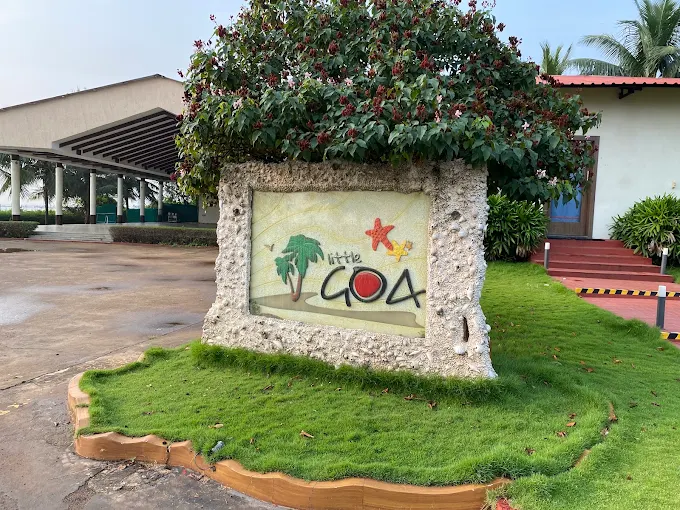
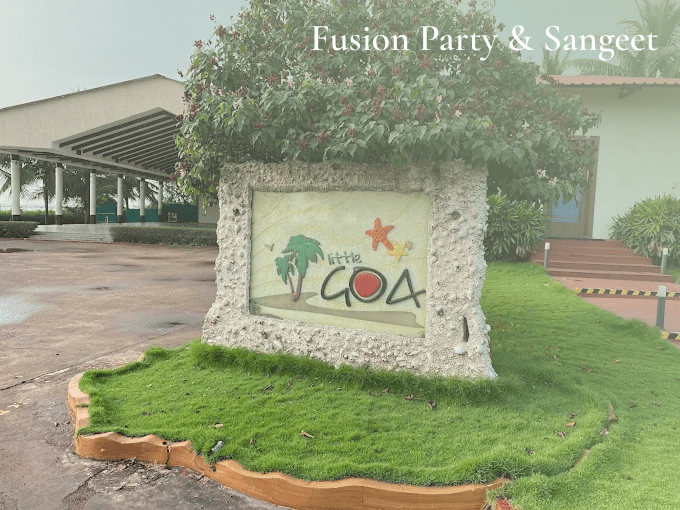
Fixed typos and updated venue images with caption

diff --git a/src/App.tsx b/src/App.tsx
@@ -80,7 +80,7 @@ function App() {
           <header className="hero-meta"><span>Our wedding</span><span>#TUTTUPALLA</span></header>
           <div className="hero-center">
             <img className="hero-logo" src="/Gold-text-no-bg.svg" alt="Sharani and Aravind monogram" />
-            <p className="light-kicker">Together with their families</p>
+            <p className="light-kicker">Together with our families</p>
             <h1>Sharani <i>&amp;</i> Aravind</h1>
             <p className="hero-date">Saturday &amp; Sunday, 12–13 December 2026</p>
           </div>
@@ -103,7 +103,7 @@ function App() {
         <section className="invite-section location-section">
           <div className="location-heading"><p className="kicker">Location</p><h2>Sai Priya<br /><i>Beach Resort</i></h2></div>
           <PhotoCarousel className="location-carousel" photos={venuePhotos} alt="Sai Priya Beach Resort" />
-          <p>We'll be celebrating by the sea at Sai Priya Beach Resort, Visakhapatnam.</p>
+          <p>We'll be celebrating by the beach at Sai Priya Beach Resort, Visakhapatnam.</p>
           <a className="pill-button" href="https://maps.app.goo.gl/id42pd1ZgCsBTgb98" target="_blank" rel="noreferrer">View the map <ArrowRight size={13} /></a>
         </section>
 
@@ -125,7 +125,7 @@ function App() {
             <p className="dress-emoji-title">🌸 FUSION PARTY</p>
             <p className="dress-sub">Pastels, pretty things &amp; a little bit of South Indian drama</p>
             <p>We're going for pastels + light colours + Indian silhouettes.</p>
-            <p><strong>Think:</strong> Kerala Kasavu sarees, Kalamkari blouses, Gadwal sarees, Mangalgiri/Mangalagiri sarees, Light cotton/silk sarees, Pastel kurtas / anarkalis, Kerala mundu or Pattu pancha.</p>
+            <p><strong>Think:</strong> Kerala kasavu sarees, Kalamkari blouses, Gadwal sarees, Mangalgiri/Mangalagiri sarees, light cotton/silk sarees, pastel kurtas / anarkalis, Kerala mundu or pattu pancha.</p>
             <p>Basically anything that says "I made an effort" without saying "I haven't sat down in three hours."</p>
             <p className="dress-muted">Colour mood: ivory • cream • blush • peach • sage • powder blue • lilac • butter yellow • soft pink</p>
           </div>
